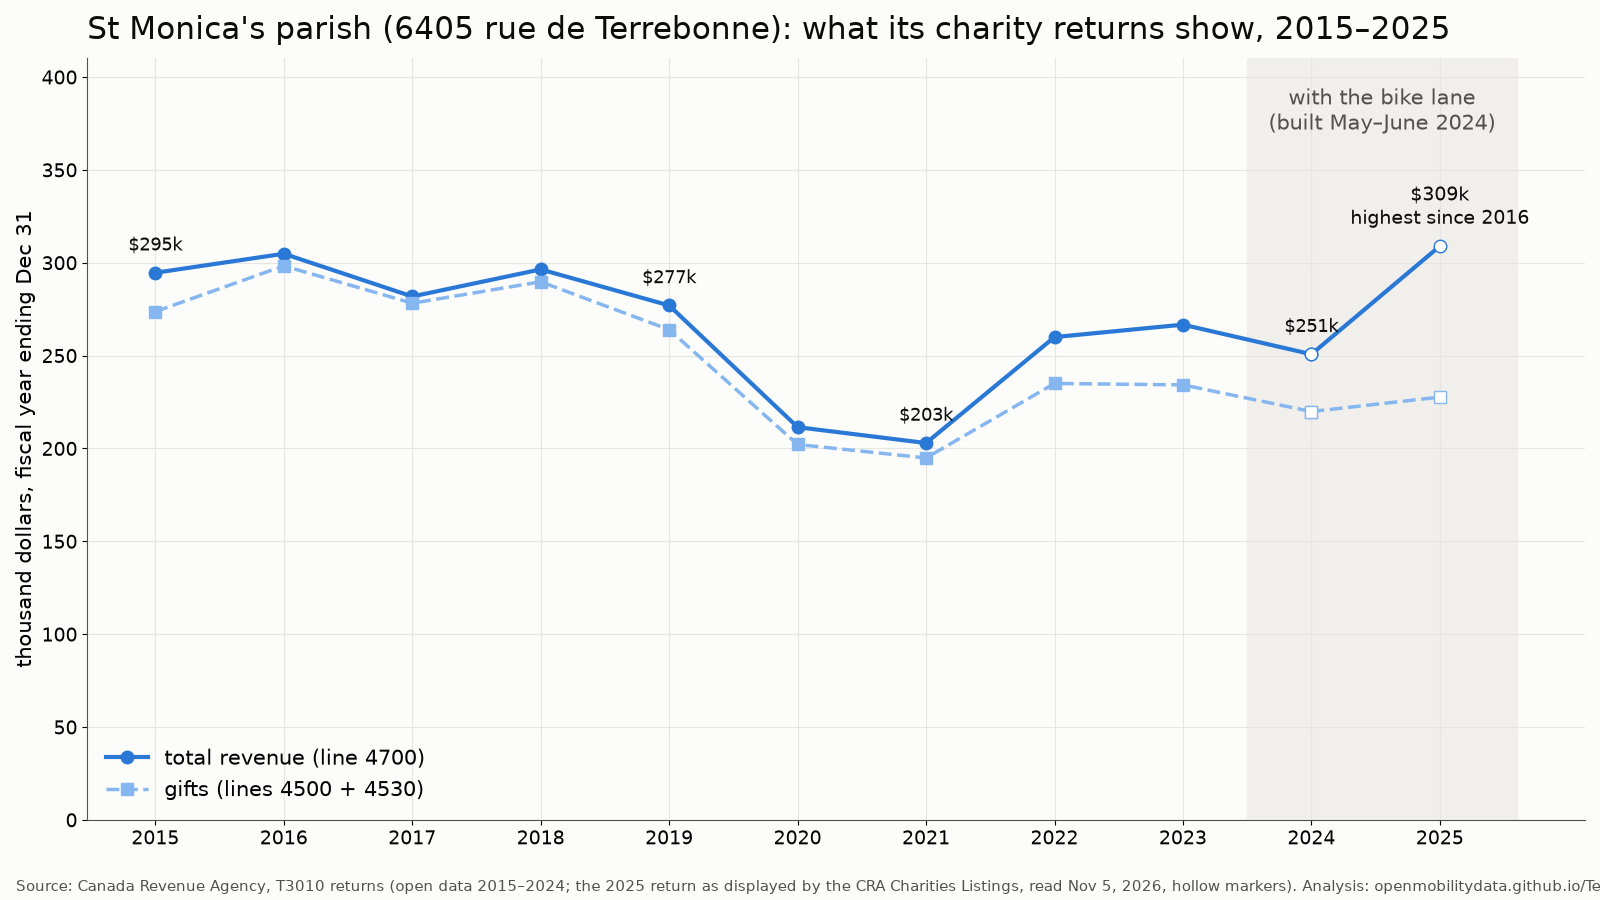
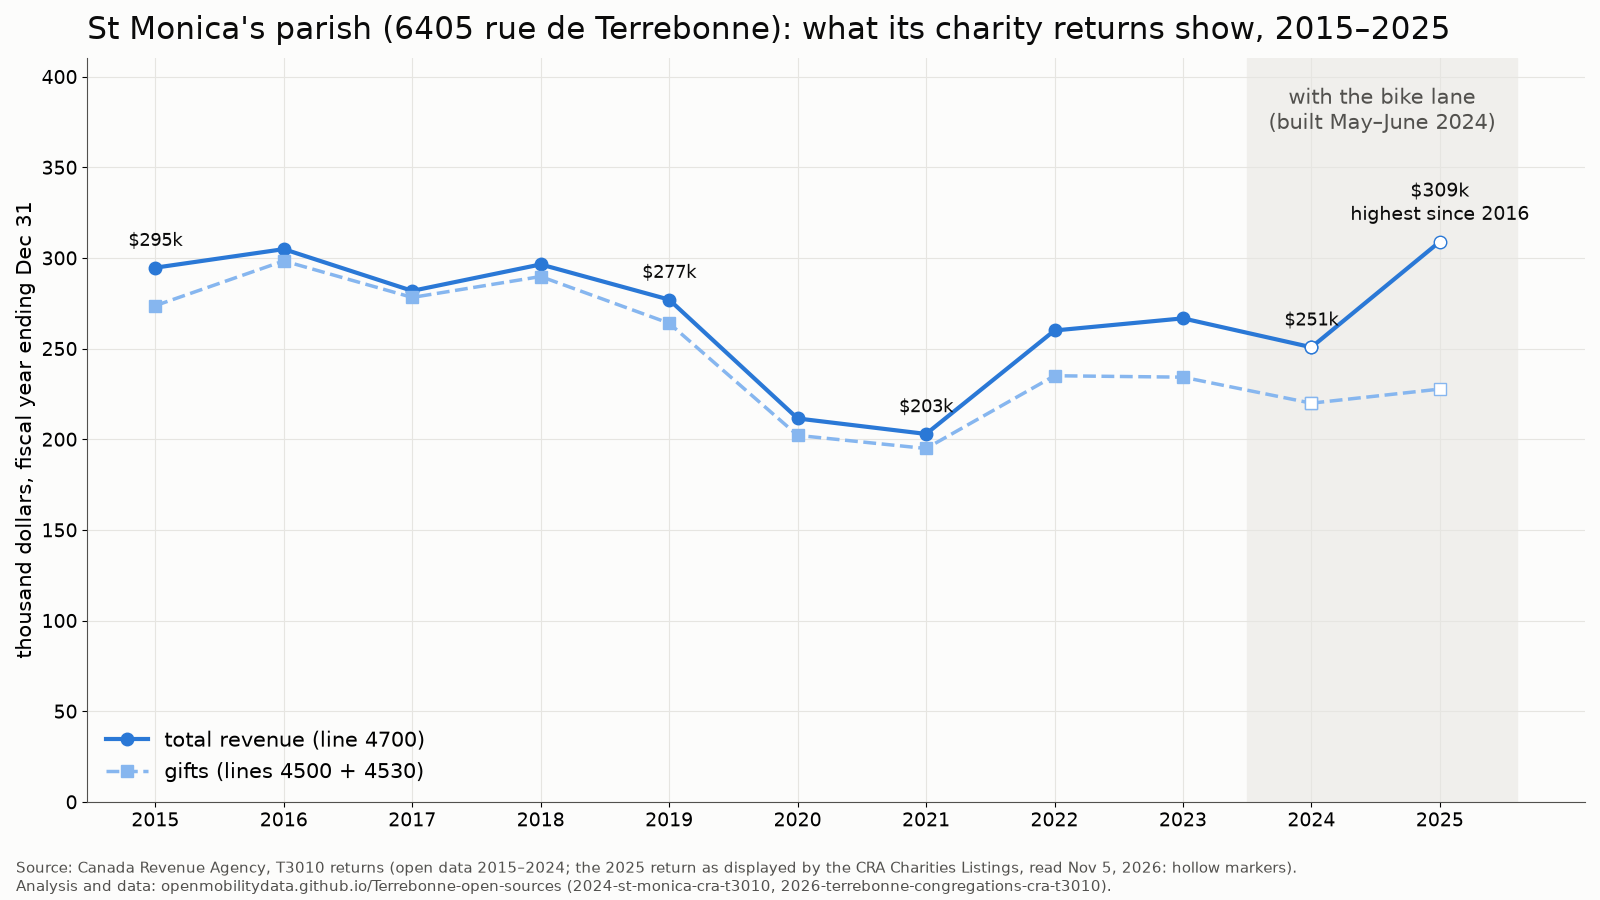
Terrebonne congregations: social cards, layout fixes
Claude-Session: https://claude.ai/code/session_01DdMD1Ynaup9vHHTqib8XjE

diff --git a/2026-terrebonne-congregations-cra-t3010/derived/social_cards.py b/2026-terrebonne-congregations-cra-t3010/derived/social_cards.py
@@ -20,20 +20,20 @@ for y, v in zip(ys, rev):
     if y in (2015, 2019, 2021, 2024): ax.text(y, v + 12, f'${v:.0f}k', ha='center', fontsize=13, color=INK)
 ax.set_xticks(list(range(2015, 2026))); ax.tick_params(labelsize=14); ax.set_ylim(0, 410); ax.set_ylabel('thousand dollars, fiscal year ending Dec 31', fontsize=15); ax.legend(fontsize=15, loc='lower left')
 ax.set_title("St Monica's parish (6405 rue de Terrebonne): what its charity returns show, 2015–2025", loc='left', fontsize=22, color=INK, pad=14)
-fig.text(0.01, 0.01, 'Source: Canada Revenue Agency, T3010 returns (open data 2015–2024; the 2025 return as displayed by the CRA Charities Listings, read Nov 5, 2026, hollow markers). Analysis: openmobilitydata.github.io/Terrebonne-open-sources (2024-st-monica-cra-t3010, 2026-terrebonne-congregations-cra-t3010).', fontsize=11, color=INK2)
-fig.tight_layout(rect=(0, 0.04, 1, 1)); fig.savefig(os.path.join(FIG, 'social_card_1_st_monica_2015_2025.png')); plt.close(fig)
+fig.text(0.01, 0.01, 'Source: Canada Revenue Agency, T3010 returns (open data 2015–2024; the 2025 return as displayed by the CRA Charities Listings, read Nov 5, 2026: hollow markers).\nAnalysis and data: openmobilitydata.github.io/Terrebonne-open-sources (2024-st-monica-cra-t3010, 2026-terrebonne-congregations-cra-t3010).', fontsize=11, color=INK2)
+fig.tight_layout(rect=(0, 0.06, 1, 1)); fig.savefig(os.path.join(FIG, 'social_card_1_st_monica_2015_2025.png')); plt.close(fig)
 # card 2: both frontage congregations, first lane year against their own record
 fig, ax = plt.subplots(figsize=(16, 9), dpi=100)
 items = [("St Monica, revenue\n2024 vs 2019–2023 mean", P['revenue_2024_vs_base_pct'], '#2a78d6'), ("St Monica, gifts\n2024 vs 2019–2023 mean", P['gifts_2024_vs_base_pct'], '#86b6ef'),
          ("Yuen Kwok Buddhist Temple, revenue\n2024 vs 2022–2023", T['revenue_2024_vs_base_pct'], '#eb6834'), ("Yuen Kwok Buddhist Temple, expenditures\n2024 vs 2022–2023", T['expenditures_2024_vs_base_pct'], '#f0a07a')]
 yy = range(len(items))
 ax.barh(list(yy), [i[1] for i in items], color=[i[2] for i in items], height=0.55)
-for i, (lab, v, c) in enumerate(items): ax.text(v + (1.2 if v >= 0 else -1.2), i, f'{v:+.0f} %', va='center', ha='left' if v >= 0 else 'right', fontsize=18, color=INK)
-ax.set_yticks(list(yy)); ax.set_yticklabels([i[0] for i in items], fontsize=15); ax.invert_yaxis(); ax.axvline(0, color=INK2, lw=1)
+for i, (lab, v, c) in enumerate(items): ax.text(v + (1.0 if v >= 0 else -1.0), i, f'{v:+.0f} %', va='center', ha='left' if v >= 0 else 'right', fontsize=18, color=INK, bbox=dict(boxstyle='round,pad=0.15', fc=SURF, ec='none'))
+ax.set_yticks(list(yy)); ax.set_yticklabels([i[0] for i in items], fontsize=15); ax.axvline(0, color=INK2, lw=1)
 ref = REF.get('revenue_2024_vs_2022_2023_mean', {}).get('median_pct')
-if ref is not None: ax.axvline(ref, color=INK2, lw=1.5, ls='--'); ax.text(ref + 0.6, 3.45, f'median of 12 other Catholic parishes\nof the area, revenue 2024 vs 2022–23: {ref:+.0f} %', fontsize=12, color=INK2, va='bottom')
-ax.set_xlim(-15, 32); ax.tick_params(axis='x', labelsize=14); ax.set_xlabel('change in the first year with the lane (2024), per cent', fontsize=15)
-ax.set_title('The two places of worship with a frontage on rue de Terrebonne: first year with the lane, against their own records', loc='left', fontsize=21, color=INK, pad=14)
-fig.text(0.01, 0.01, "Source: CRA T3010 open data 2015–2024. The temple's returns begin in 2022 and its 2022 and 2023 figures are identical to the dollar. A third registered charity files from a residential unit at 6350 (returns under $12k a year, nil in 2024). Analysis: openmobilitydata.github.io/Terrebonne-open-sources/2026-terrebonne-congregations-cra-t3010/", fontsize=10.5, color=INK2)
-fig.tight_layout(rect=(0, 0.05, 1, 1)); fig.savefig(os.path.join(FIG, 'social_card_2_first_lane_year.png')); plt.close(fig)
+if ref is not None: ax.axvline(ref, color=INK2, lw=1.5, ls='--'); ax.text(ref + 0.6, -0.62, f'median of 12 other Catholic parishes of the area,\nrevenue 2024 vs 2022–23: {ref:+.0f} %', fontsize=12, color=INK2, va='top')
+ax.set_xlim(-15, 32); ax.set_ylim(3.6, -1.1); ax.tick_params(axis='x', labelsize=14); ax.set_xlabel('change in the first year with the lane (2024), per cent', fontsize=15)
+ax.set_title('The two places of worship with a frontage on rue de Terrebonne:\nthe first year with the lane (2024) against each one\u2019s own record', loc='left', fontsize=21, color=INK, pad=14)
+fig.text(0.01, 0.01, "Source: CRA T3010 open data 2015–2024. The temple's returns begin in 2022 and its 2022 and 2023 figures are identical to the dollar. A third registered charity files from a\nresidential unit at 6350 (returns under $12k a year, nil in 2024). Analysis and data: openmobilitydata.github.io/Terrebonne-open-sources/2026-terrebonne-congregations-cra-t3010/", fontsize=10.5, color=INK2)
+fig.tight_layout(rect=(0, 0.07, 1, 1)); fig.savefig(os.path.join(FIG, 'social_card_2_first_lane_year.png')); plt.close(fig)
 print('cards written')
